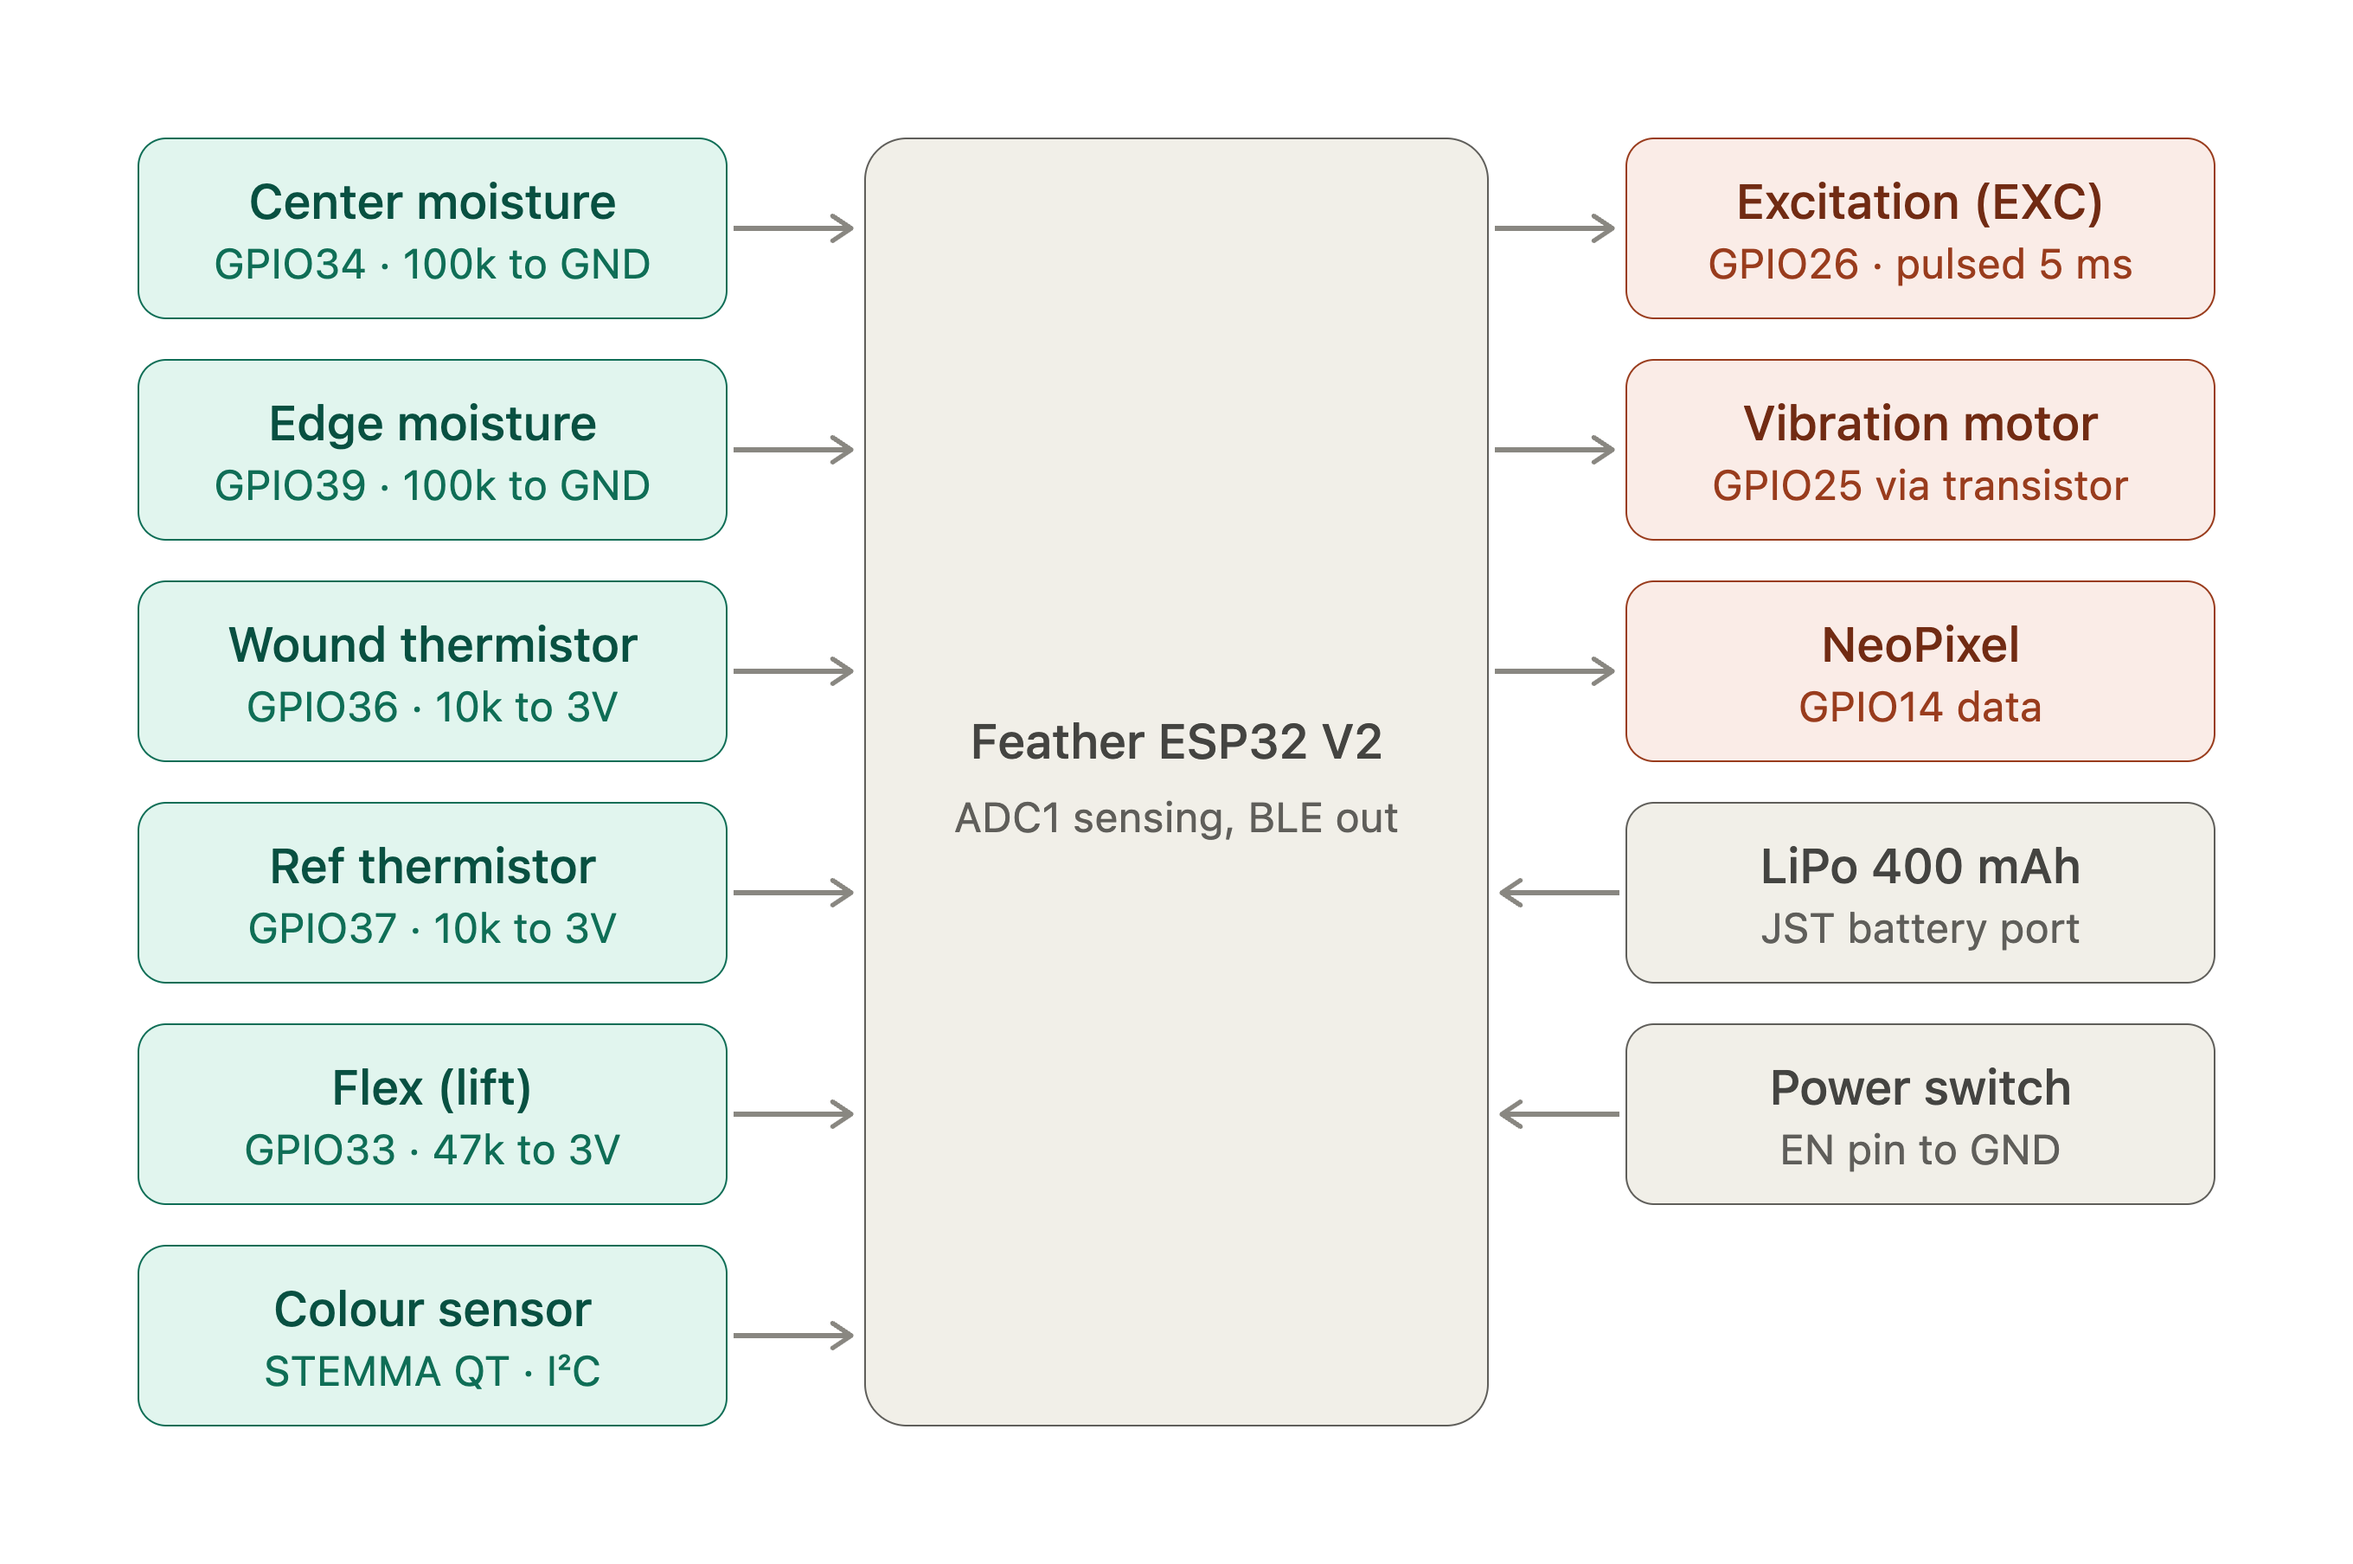
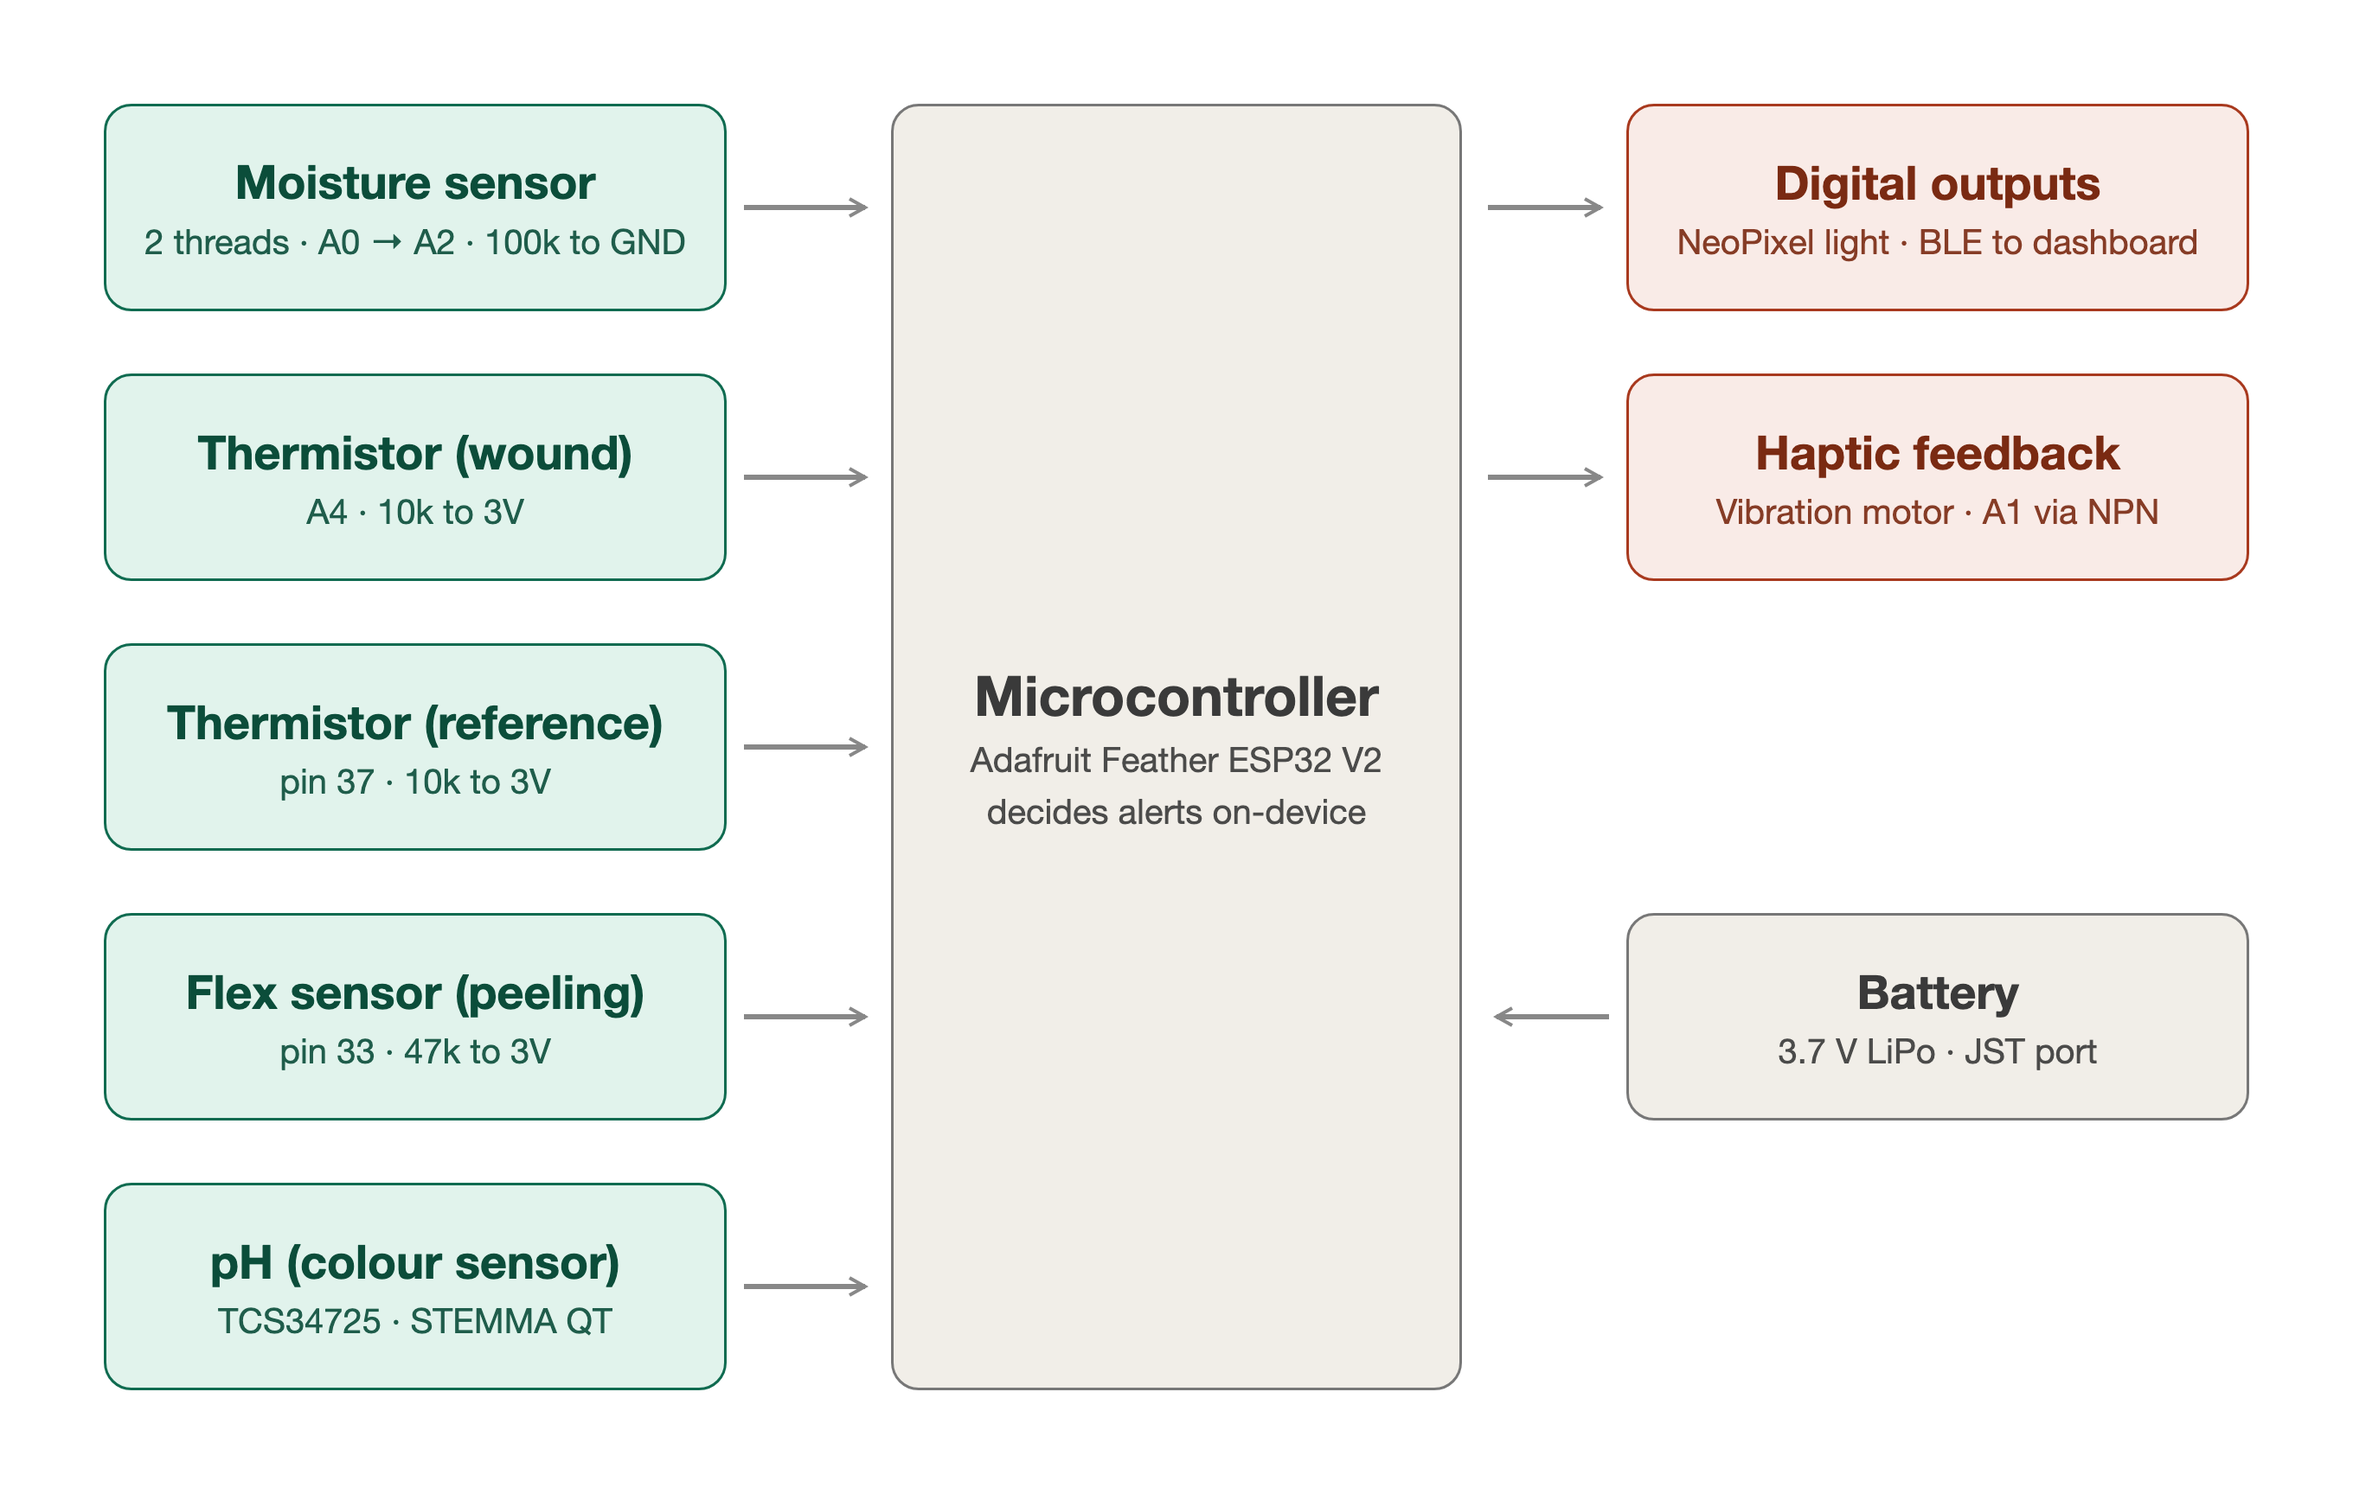
README matches the current build: block diagram, two-thread pad, battery
Redraw the block diagram (5 inputs, digital outputs, haptic, battery) and the
divider diagram (single moisture sense node on A2). Drop the edge moisture zone,
external NeoPixel and power-switch references; add battery/power notes and the
hosted dashboard link.

diff --git a/README.md b/README.md
@@ -2,7 +2,7 @@
 
 Smart wound-dressing monitor for **natHacks 2026** (Edmonton · Standard Division · Healthcare & Accessibility).
 
-A disposable sensing dressing plugs into a reusable pod. The pod watches moisture, temperature, optional pH colour, and lift. Decision logic and haptic/LED alerts run on the device so they still fire if the phone drops. A Web Bluetooth app (Chrome) shows live readings and trends (not discrete alert statuses) and can let a clinician set thresholds.
+A disposable sensing dressing plugs into a reusable pod. The pod watches moisture, wound temperature (against a reference thermistor), pH (by reading a pH strip's colour), and peeling (flex sensor). Decision logic and haptic/LED alerts run on the device so they still fire if the phone drops. A Web Bluetooth dashboard (Chrome) shows live readings and lets a clinician set thresholds: **https://ddc6406.github.io/SmartDress/**
 
 **Prototype only.** Tested on a skin-phantom rig. No real wounds. The device never diagnoses — it compares readings to clinician-set criteria and surfaces messages like “your clinician’s criteria say it’s time to change your dressing” or “contact your clinic for review.”
 
@@ -12,8 +12,8 @@ A disposable sensing dressing plugs into a reusable pod. The pod watches moistur
 
 | Piece | Role |
 | --- | --- |
-| Sensing dressing | Moisture electrodes (centre + edge), thermistors, optional pH patch, flex/lift |
-| DressCheck pod | Adafruit Feather ESP32 V2 + dividers, motor, BLE |
+| Sensing dressing | Moisture pad (two conductive threads on gauze), wound + reference thermistors, pH strip read by the colour sensor, flex sensor for peeling |
+| DressCheck pod | Adafruit Feather ESP32 V2 + divider resistors, vibration motor, NeoPixel light, LiPo battery |
 | Phone / laptop | Chrome Web Bluetooth clinician / patient UI |
 
 Hardware detail and breadboard steps live in the team build guide. Sensor conversion assumptions are documented in [`docs/sensor-assumptions.md`](docs/sensor-assumptions.md).
@@ -24,14 +24,18 @@ Hardware detail and breadboard steps live in the team build guide. Sensor conver
 
 ![DressCheck pod block diagram](docs/schematics/pod-block-diagram.png)
 
-Feather ESP32 V2 does ADC1 sensing and BLE out. Moisture EXC is pulsed (~5 ms). Decision logic stays on the pod so alerts still fire if the phone disconnects.
+| Inputs | Microcontroller | Outputs / power |
+| --- | --- | --- |
+| Moisture sensor · Thermistor (wound) · Thermistor (reference) · Flex sensor (peeling) · pH (colour sensor) | Feather ESP32 V2: reads every sensor, decides alerts on-device | Digital outputs (NeoPixel light, BLE to the dashboard) · Haptic feedback (vibration motor) · Battery in (LiPo) |
+
+Moisture excitation (A0) is pulsed for ~5 ms per reading so the thread never sits under DC. Decision logic stays on the pod so alerts still fire if the dashboard disconnects.
 
 **BLE:** one custom service (`dcc00001-a1b2-c3d4-e5f6-000000000001`)
 
 - `SENSOR_PACKET` — notify  
 - `STATUS` — notify  
 - `THRESHOLDS` — write  
-- `COMMAND` — write (`NEW_DRESSING`, `ACK_ALERT`, `SELF_TEST`)
+- `COMMAND` — write (`NEW_DRESSING`, `ACK_ALERT`, `SELF_TEST`, `CALIBRATE_WHITE`, `BUZZ_ON`, `BUZZ_OFF`)
 
 ---
 
@@ -58,15 +62,15 @@ Pod: **Adafruit Feather ESP32 V2** (3.3 V logic only). ADC1 only for sensing.
 | Moisture EXC | 26 | Pulse HIGH ~5 ms, then LOW |
 | Motor | 25 | Via 1k → NPN (direct; no driver board); flyback diode |
 | Moisture (sensing thread) | 34 | 100k to GND |
-| Edge moisture | 39 | Not fitted: the pad uses two threads (EXC on A0, sensing on A2). Set `Pins::EDGE_ZONE_FITTED` to add a third. |
 | Wound thermistor | 36 | 10k to 3V |
 | Reference thermistor | 37 | 10k to 3V |
 | Flex (lift) | 33 | 47k to 3V |
-| Colour sensor | SDA 22 / SCL 20 | STEMMA QT (TCS34725 assumed) |
-| NeoPixel | 0 (onboard) / 14 optional | Power enable GPIO2 if needed |
+| Colour sensor (pH) | SDA 22 / SCL 20 | TCS34725 on the STEMMA QT port |
+| NeoPixel | 0 (onboard) | Power enable GPIO2 |
 | Ack button | 38 | Built-in |
+| Battery | JST port | 3.7 V single-cell LiPo, charges over USB-C |
 
-**Names printed on the Feather** (it is silkscreened with these, not GPIO numbers): EXC = **A0**, Motor = **A1**, Centre moisture = **A2**, Edge moisture = **A3**, Wound thermistor = **A4**, Reference thermistor = **37**, Flex = **33**, colour sensor on the STEMMA QT port (SDA/SCL), power = **3V** / **GND**.
+**Names printed on the Feather** (it is silkscreened with these, not GPIO numbers): EXC = **A0**, Motor = **A1**, Moisture sensing thread = **A2**, Wound thermistor = **A4**, Reference thermistor = **37**, Flex = **33**, colour sensor on the STEMMA QT port (SDA/SCL), power = **3V** / **GND**.
 
 ### Breadboard layout
 
@@ -79,7 +83,7 @@ Mini / half-size two-board layout: Feather on the left (USB-C facing left), divi
 ![Thermistor, moisture, and flex divider circuits](docs/schematics/sensor-dividers.png)
 
 - Thermistors: 3V → 10k → node (GPIO36 / GPIO37) → NTC → GND  
-- Moisture zones: EXC → thread → node (GPIO34 / GPIO39) → 100k → GND  
+- Moisture pad: EXC (A0) → thread → gauze → thread → node (A2 / GPIO34) → 100k → GND  
 - Flex: 3V → 47k → node (GPIO33) → flex → GND  
 
 ### Motor circuit
@@ -87,6 +91,12 @@ Mini / half-size two-board layout: Feather on the left (USB-C facing left), divi
 ![Vibration motor with NPN and flyback diode](docs/schematics/motor-circuit.png)
 
 GPIO25 → 1k → NPN base. Motor red wire to 3V. Diode across the motor (stripe / cathode to 3V). Emitter to GND.
+
+### Battery and power
+
+Plug a **3.7 V single-cell LiPo** (2-pin JST-PH) into the Feather's battery port. Check the polarity first: red must go to the board's **+**. USB-C charges it and the board switches over without rebooting when USB is unplugged.
+
+The Feather has **no power switch**: unplug the battery to turn the pod off. (Optional: a slide switch from **EN** to **GND** turns it off while still letting it charge.) A blue pulsing NeoPixel means the pod is on with no dressing started.
 
 ---
 
@@ -117,8 +127,8 @@ Libraries pulled by PlatformIO (`platformio.ini`):
 
 1. Use **Chrome** (Web Bluetooth; Safari not supported).
 2. Serve `app/` over HTTPS or `localhost`.
-3. Pair the pod, or click **Mock mode** to exercise the UI without hardware.
-4. Dashboard shows live tiles + trends and a soft advisory banner from reason codes — not coloured OK / CHANGE_SOON status cards. On-device NeoPixel / motor keep alerts.
+3. Or just open the hosted copy: **https://ddc6406.github.io/SmartDress/** (add `?mock` for demo data without hardware). iPhone Safari has no Web Bluetooth, so connect from a laptop (or Android) in Chrome.
+4. **Connect pod** shows live readings, raw voltages, sliders for every threshold, **Hold to buzz** and **Calibrate white**. On-device NeoPixel / motor keep alerting either way.
 
 ```bash
 cd app
@@ -163,7 +173,7 @@ Close the serial monitor before flashing; only one program can hold the port.
 ## Team & credits
 
 **Team:** Tirthrajsinh (Tirth) Gohil, Mehtab Singh, Om Arey, Shreyas Prassana, Dhairya Chauhan  
-**Hardware:** Adafruit Feather ESP32 V2, NTC thermistors (Beta 3950), conductive-thread moisture pad, flex sensor, STEMMA TCS34725 colour sensor, vibration motor (direct NPN drive)  
+**Hardware:** Adafruit Feather ESP32 V2, NTC thermistors (Beta 3950), two-thread conductive moisture pad, flex sensor, STEMMA TCS34725 colour sensor + pH strips, vibration motor (direct NPN drive), LiPo battery  
 
 **Libraries / assets:** PlatformIO (Espressif32), Adafruit TCS34725, Adafruit NeoPixel, ESP32 Arduino BLE stack, team schematic PNGs in `docs/schematics/`
 
